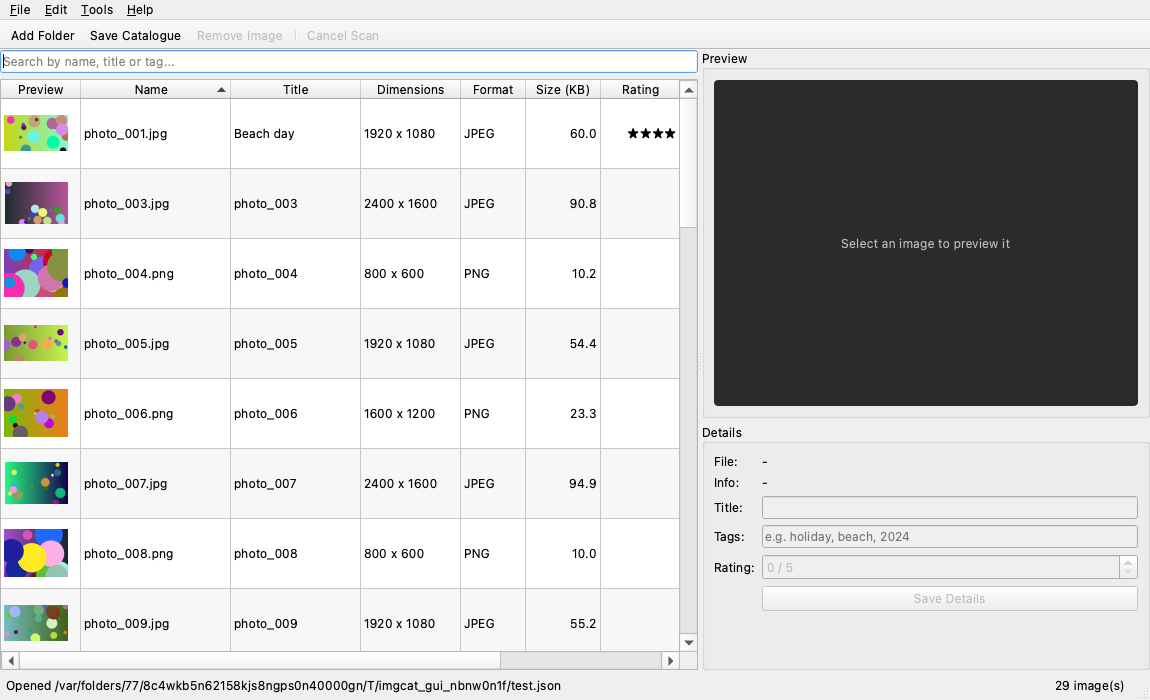
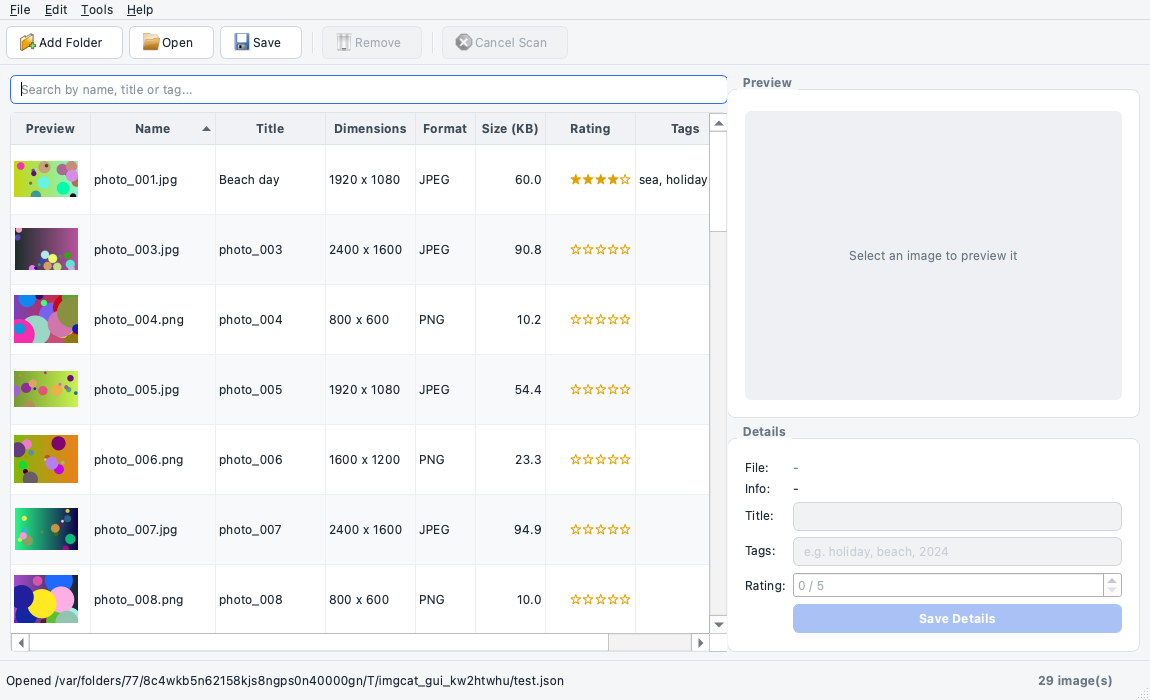
Update screenshots, test results and docs for the new look

diff --git a/docs/05_technical_report.md b/docs/05_technical_report.md
@@ -17,7 +17,8 @@ The project uses MVC, adapted to Qt's model/view framework (see the diagram in `
 | Model | `model/image_item.py`: `ImageItem`, validation functions | One image's data; rules for valid title, tags, rating |
 | Model | `model/catalogue.py`: `ImageCatalogue` | The collection: add, remove, edit, search, save/load JSON |
 | Model | `model/processing.py` | Find image files; read details and make thumbnails |
-| View | `views/main_window.py`: `MainWindow`, `PreviewLabel` | Widgets, menus, toolbar, dialogs; emits custom signals |
+| View | `views/main_window.py`: `MainWindow`, `PreviewLabel`, `ImageTable` | Widgets, menus, toolbar, dialogs; emits custom signals |
+| View | `views/theme.py` | The light theme: Fusion style, a fixed light palette and one style sheet for buttons, inputs, table and status bar |
 | View (Qt adapter) | `views/image_table_model.py`: `ImageTableModel`, `ImageFilterProxy` | Connects the catalogue to `QTableView`; sorting and filtering |
 | Controller | `controller/main_controller.py`: `MainController` | Reacts to view signals, updates the model, runs the worker |
 | Worker | `workers/scan_worker.py`: `ScanWorker`, `ScanStats` | Background scanning and thread-safe progress counting |
@@ -32,6 +33,10 @@ The project uses MVC, adapted to Qt's model/view framework (see the diagram in `
 ## 15.3 GUI design decisions
 
 - **QMainWindow** gives the standard menu bar, toolbar and status bar layout that users already know.
+- **Light theme with clear buttons (`views/theme.py`).** In the first version the toolbar actions showed as plain text, which didn't look like buttons. I switched to Qt's Fusion style with a fixed light palette, so the app looks the same on macOS and Windows and stays light even when the Mac is in dark mode. Every toolbar button now has an icon and text, a border and a hover highlight. The icons are Qt's built-in standard icons, so there are no extra image files to package.
+- **Colour means something.** Blue is only used for the main action in the form (Save Details). Red is only used for actions that remove or stop something (Remove, Cancel Scan). Disabled buttons turn grey, so it's clear what you can do at any moment. For example, Remove stays grey until an image is selected.
+- **Gold stars** (★★★★☆) make ratings easy to read at a glance. The empty table shows "No images yet. Click Add Folder to start." instead of a blank area, or "No images match your search." when a search finds nothing.
+- **All the styling is in one file.** The window code only gives widgets names like `primaryButton` or `dangerButton`, and `theme.py` decides what those look like. The look can change without touching the window's logic.
 - **QTableView rather than a QListWidget of thumbnails:** the user wants to compare details (size, rating, tags) and sort by them, and a table does that well. The thumbnail is in the first column so it's still visual.
 - **QSplitter** between the table and the preview so the user can choose how much space each gets.
 - **QFormLayout** for the details, since label/field pairs are what forms are for.
@@ -91,6 +96,7 @@ The project was built up in stages, with a commit at each step:
 4. **`feature/window-title`** branch: a **controlled merge conflict**. Both main and the branch changed the same `setWindowTitle(...)` line. `git merge` stopped with `CONFLICT (content): Merge conflict in catalogue/views/main_window.py` and added `<<<<<<< HEAD`, `=======` and `>>>>>>>` markers. `HEAD` is main's version and the part after `=======` is the branch's. I resolved it by keeping the branch's title ("Image Catalogue - Photo Organiser"), deleted the markers, ran the tests (68 passed) and committed the merge. The full output is in `evidence/git_merge_conflict.txt`.
 5. **`feature/testing`** branch: the benchmark, the GUI walkthrough script, the D5 bug fix as its own `Fix:` commit, the PyInstaller configuration (with the macOS `.app` bundle), and the test, performance and report documents.
 6. **Pull request and merge:** `feature/testing` was merged into main on GitHub through pull request #1, then the GitHub screenshots were added on main.
+7. **`feature/ui-polish`** branch: the visual polish (light theme, button icons and colours, gold stars, empty-table message), with the tests and the GUI walkthrough re-run so the screenshots show the new look. Merged into main through pull request #2.
 
 **Remote:** all four branches were pushed to a private GitHub repository (`miteshumretiya/image-catalogue`) with `git push -u origin ...`. Pull request #1, "Add testing, benchmark, packaging and documentation", contained 10 commits and 25 changed files, with a description of what it adds and how it was tested. After checking the "Files changed" tab I merged it on GitHub, then ran `git pull` to bring the merge commit back to my Mac. I kept the feature branches on GitHub instead of deleting them, so the history stays visible.
 

diff --git a/docs/02_test_plan.md b/docs/02_test_plan.md
@@ -24,14 +24,14 @@ These tests were run on the real application window on macOS 26.6 (Python 3.14.7
 | MT01 | FR1, FR2 | Add folder | Normal | File > Add Folder, choose `sample_images` | 30 images appear with thumbnails; status says "Scan complete. 30 image(s) added. 1 file(s) could not be read." | 30 images with thumbnails. Status 'Scan complete. 30 image(s) added. 1 file(s) could not be read.' | Pass |
 | MT02 | FR2 | Bad file handling | Exceptional | Same scan (folder has `broken.jpg`) | Warning dialog lists `broken.jpg`; the other 30 are still added; the app does not crash | Warning 'Some files were skipped' listed broken.jpg; the other 30 were still added | Pass |
 | MT03 | FR1 | Non-image files | Normal | Same scan (folder has `notes.txt`) | `notes.txt` is ignored silently | notes.txt is not in the table and not reported as a failure | Pass |
-| MT04 | FR2 | Responsiveness | Normal | Scan a big folder (`make_sample_images.py big 300`), then drag the window, scroll the table and type in search while it runs | Window keeps responding; rows appear while scanning | 200-image scan took 1.8s; a 20 ms timer on the GUI thread fired 53 times, longest gap 78 ms (window never froze) | Pass |
+| MT04 | FR2 | Responsiveness | Normal | Scan a big folder (`make_sample_images.py big 300`), then drag the window, scroll the table and type in search while it runs | Window keeps responding; rows appear while scanning | 200-image scan took 2.0s; a 20 ms timer on the GUI thread fired 64 times, longest gap 89 ms (window never froze) | Pass |
 | MT05 | FR3 | Progress | Normal | Watch status bar during MT04 | Progress bar counts up to e.g. "300 / 300", then hides | Progress went (0, 201) -> (201, 201) in 202 updates; bar hidden afterwards: True | Pass |
-| MT06 | FR3 | Cancel | Normal | Start a 300-image scan, press Cancel (or Esc) halfway | Status says "Scan cancelled. N image(s) were added before stopping"; Add Folder works again | Pressed Cancel: 'Scan cancelled. 66 image(s) were added before stopping. 1 file(s) could not be read.'. Add Folder enabled again: True | Pass |
-| MT07 | FR3 | Restart after cancel | Normal | After MT06, add the same folder again | Only the images not yet added are added (no duplicates) | Scanned the same folder again: 'Scan complete. 134 image(s) added. 1 file(s) could not be read.'; 200 images in total (was 66), 0 duplicates | Pass |
+| MT06 | FR3 | Cancel | Normal | Start a 300-image scan, press Cancel (or Esc) halfway | Status says "Scan cancelled. N image(s) were added before stopping"; Add Folder works again | Pressed Cancel: 'Scan cancelled. 64 image(s) were added before stopping. 1 file(s) could not be read.'. Add Folder enabled again: True | Pass |
+| MT07 | FR3 | Restart after cancel | Normal | After MT06, add the same folder again | Only the images not yet added are added (no duplicates) | Scanned the same folder again: 'Scan complete. 136 image(s) added. 1 file(s) could not be read.'; 200 images in total (was 64), 0 duplicates | Pass |
 | MT08 | FR1 | Empty folder | Boundary | Add an empty folder | "Scan complete. 0 image(s) added."; no error | Status 'Scan complete. 0 image(s) added.', 0 images, no dialogs | Pass |
 | MT09 | FR1 | Rescan same folder | Boundary | Add `sample_images` twice | Second scan adds 0 new images; count stays 30 | Second scan of the same folder: status 'Scan complete. 0 image(s) added. 1 file(s) could not be read.', still 30 images | Pass |
 | MT10 | FR4 | Sorting | Normal | Click "Size (KB)" header twice | Rows sort smallest to largest, then largest to smallest (numerically, not as text) | Ascending 10.0 .. 94.9 KB, descending 94.9 .. 10.0 KB (numeric order) | Pass |
-| MT11 | FR5 | Preview | Normal | Click a row | Large preview and details shown; resizing the window rescales the preview | Preview and details of photo_001.jpg shown; preview rescaled 327px -> 522px wide when the window was enlarged | Pass |
+| MT11 | FR5 | Preview | Normal | Click a row | Large preview and details shown; resizing the window rescales the preview | Preview and details of photo_001.jpg shown; preview rescaled 286px -> 468px wide when the window was enlarged | Pass |
 | MT12 | FR6 | Edit details | Normal | Title "Beach day", Tags "Sea, Holiday, sea", Rating 4, Save | Table updates; tags shown as "sea, holiday"; 4 stars | Saved: title 'Beach day', tags ['sea', 'holiday'], rating 4; form now shows tags 'sea, holiday' | Pass |
 | MT13 | FR6 | Empty title | Invalid | Clear title, press Save | Error "Title cannot be empty."; nothing changes | Error 'Title cannot be empty.'; image unchanged | Pass |
 | MT14 | FR6 | Bad tag | Invalid | Tags "hello world" | Error explaining allowed characters; nothing changes | Error ''hello world' is not a valid tag. Use letters, numbers or hyphens (max 20 characters).'; image unchanged | Pass |

diff --git a/docs/01_design_specification.md b/docs/01_design_specification.md
@@ -55,7 +55,7 @@
 
 Dialogs: folder chooser, open/save file dialogs, error and warning message boxes, "remove this image?" confirmation, and "save changes?" on exit.
 
-**The finished window** follows this wireframe: menu bar and toolbar at the top, the search box above a sortable table with thumbnails on the left, and the preview and details form on the right. The progress bar and Cancel button sit in the status bar and only appear while a scan is running.
+**The finished window** follows this wireframe: menu bar and toolbar at the top, the search box above a sortable table with thumbnails on the left, and the preview and details form on the right. The progress bar and Cancel button sit in the status bar and only appear while a scan is running. After the first working version I polished the look on a separate branch: the toolbar buttons got icons, borders and colours (blue for the main action, red for removing or stopping), an Open button was added to the toolbar, and the app uses a light theme.
 
 ![The finished main window](evidence/MT01_after_scan.png)
 

diff --git a/docs/00_START_HERE.md b/docs/00_START_HERE.md
@@ -46,6 +46,8 @@ Then run `python -m pytest tests/test_image_item.py -v` and read the tests next 
 - `_create_status_bar()` adds the progress bar and Cancel button.
 - At the top are the **custom signals**. The methods at the bottom (`show_details`, `set_busy`, `show_error`, ...) are what the controller calls.
 
+`views/theme.py` holds the light theme. Widgets get special colours through their object name. For example, the Save Details button is named `primaryButton`, and theme.py makes anything with that name blue.
+
 `views/image_table_model.py` is how Qt's `QTableView` gets its data. `rowCount`, `columnCount` and `data` are called by Qt whenever it repaints. `beginInsertRows`/`endInsertRows` tell the view "a row was added". The proxy handles searching and sorting.
 
 ## Step 5: Threads (the most important part for marks)

diff --git a/README.md b/README.md
@@ -97,6 +97,7 @@ catalogue/
   views/                     what the user sees
     main_window.py           QMainWindow, menus, toolbar, preview, form
     image_table_model.py     Qt table model + search/sort proxy
+    theme.py                 light theme: colours and button styles
   controller/
     main_controller.py       connects the window, the data and the worker
   workers/
